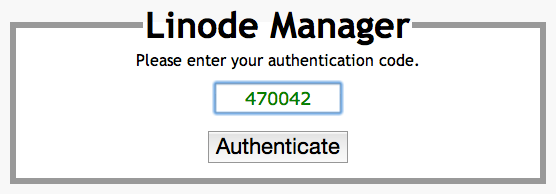
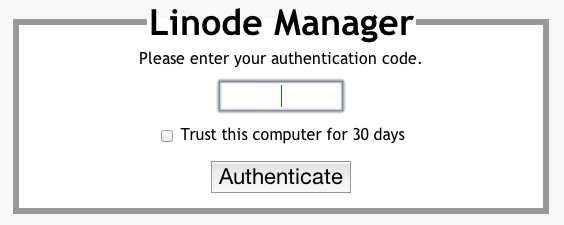
Updated 2fa instructions to include trusted computer checkbox and relevant info.

Changed region(s): [[0.0, 0.0309, 1.0, 0.9588]]

diff --git a/docs/security/linode-manager-security-controls.md b/docs/security/linode-manager-security-controls.md
@@ -89,7 +89,7 @@ Now that you have set up two-factor authentication for your account, you'll need
 
     [![Enter your token.](/docs/assets/1270-manager_login_token_470042.png)](/docs/assets/1270-manager_login_token_470042.png)
 
-4.  Enter your token, and then click **Authenticate**.
+4.  Enter your token, and then click **Authenticate**.  Checking the box below the authentication option will add your computer to the trusted computer list for 30 days, and generate a confirmation email to the address on file for your account.
 
 You have successfully logged in to the Linode Manager using two-factor authentication.
 
